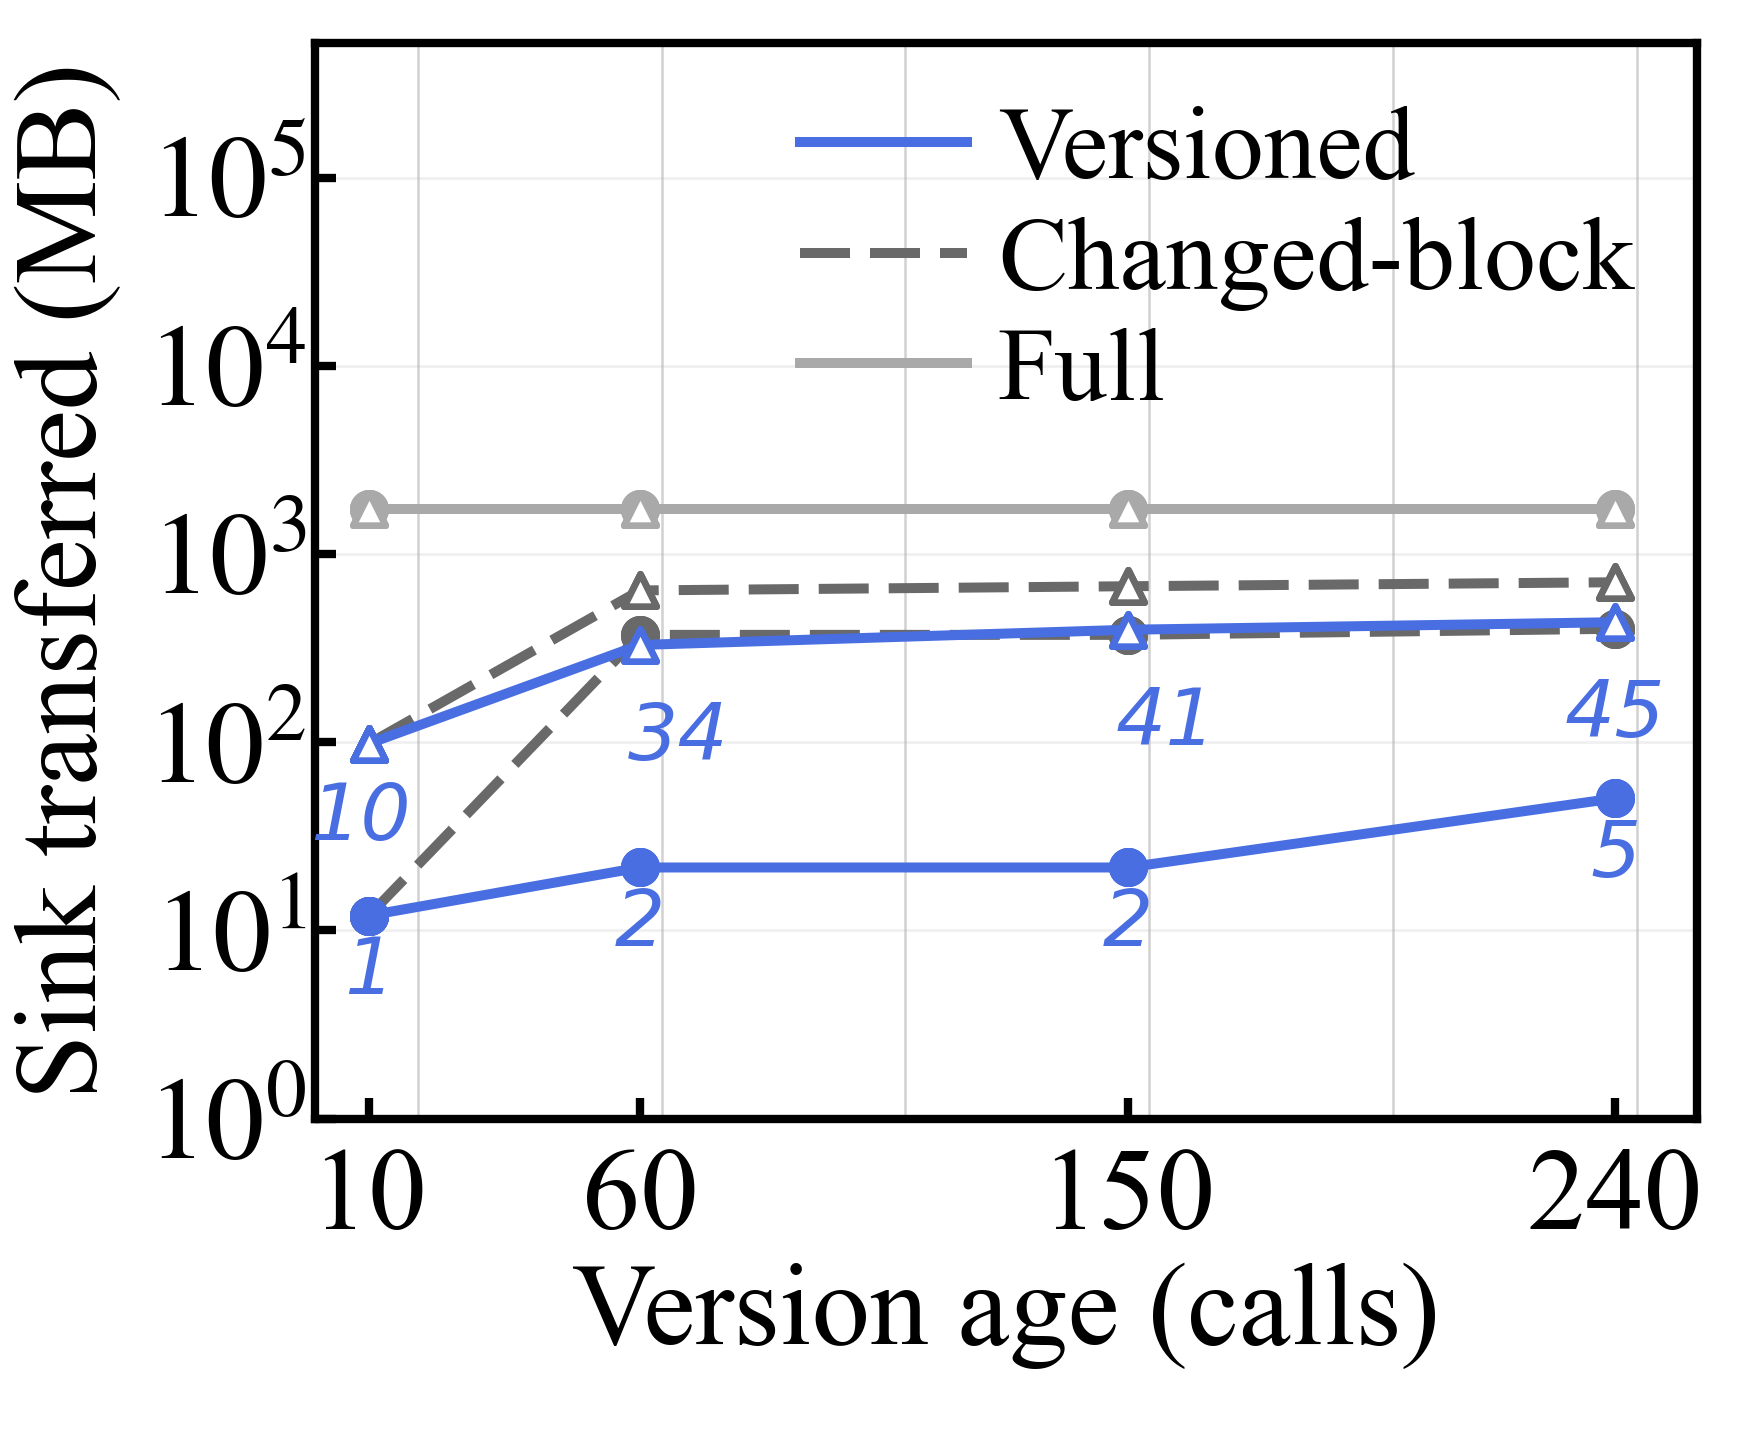
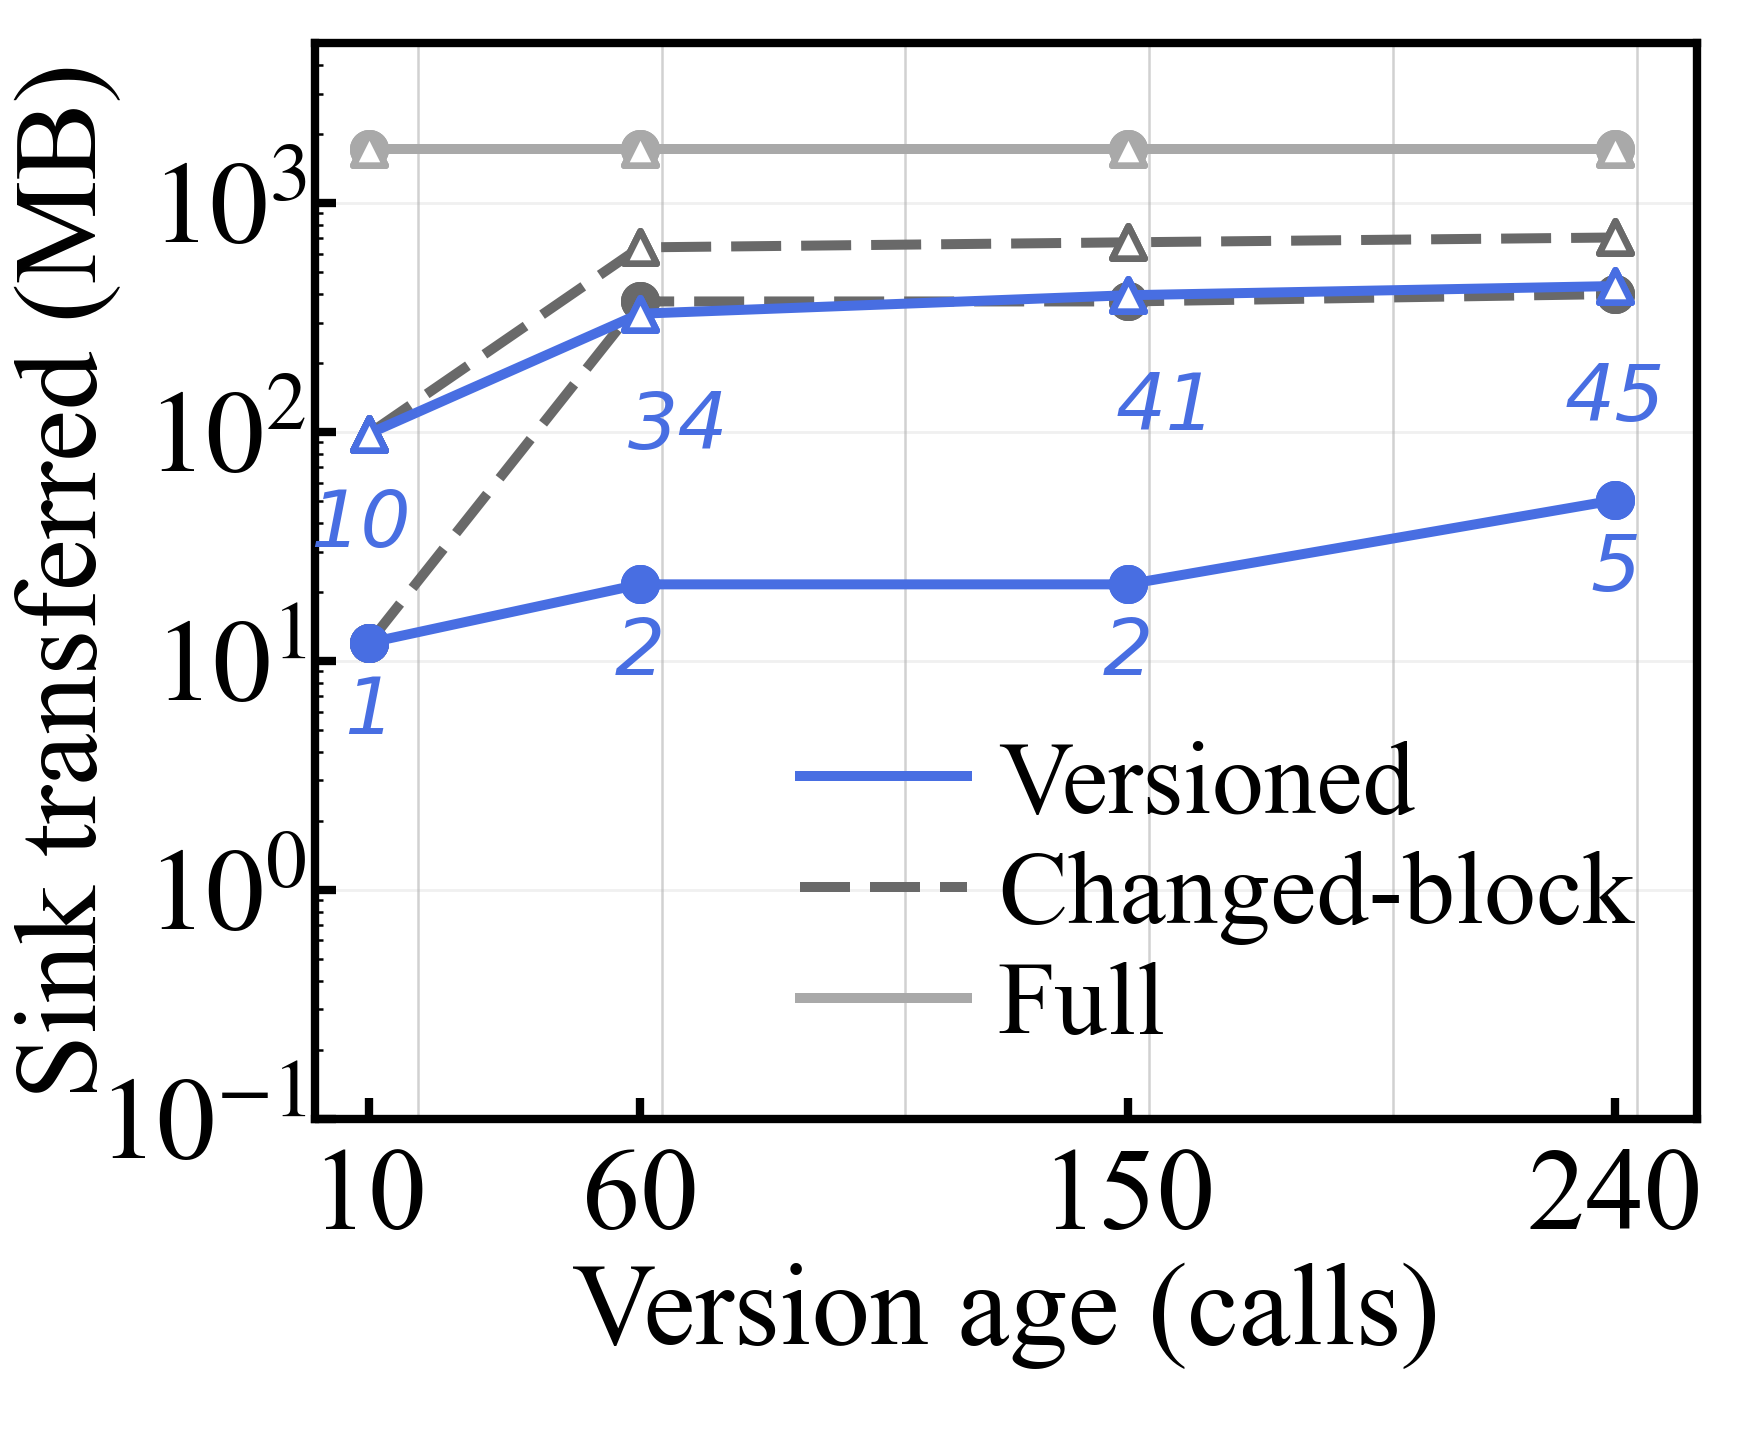
Fig. 10 review: (a) y range 0.1-5,000 MB (top just above Full), legend moved to the empty bottom right; caption draft states Changed-block is an offline estimate from measured modified K/V blocks and that the numbers are refreshed Sink entries; text on why readiness is flat in age (replay, not the b

diff --git a/tools/eval/fig10_report.py b/tools/eval/fig10_report.py
@@ -179,7 +179,7 @@ def md(R, v, agg):
     word = {True: "SUPPORTED", False: "NOT SUPPORTED", None: "NOT EVALUABLE"}
     L = ["# Fig. 10 results", "", "Rules: `preregistration.md`. " + "; ".join(f"**{h.replace('_', '-')}: {word[agg[h]]}**" for h in agg), ""]
     for w, lab in WORKLOADS.items():
-        L += [f"## {lab} ({w})", "", "| age | arm | valid | base (MB) | total mig. 2 (MB) | readiness (s) | base ready (s) | interruption (s) | refreshed / shifted entries | changed-block (MB) | unchanged-only entry (MB) | fallbacks |",
+        L += [f"## {lab} ({w})", "", "| age | arm | valid | base (MB) | total mig. 2 (MB) | readiness (s) | base ready (s) | interruption (s) | refreshed entries / distinct shifted entries / shift events | changed-block (MB) | unchanged-only entry (MB) | fallbacks |",
               "|---|---|---|---|---|---|---|---|---|---|---|---|"]
         for a in AGES:
             for arm in ARMS:
@@ -187,7 +187,7 @@ def md(R, v, agg):
                 mb = lambda k: f(x[k]["median"] / 1e6, 1) if x[k]["median"] is not None else "-"  # noqa: E731
                 rng = lambda k: f"{f(x[k]['median'])} [{f(x[k]['min'])}-{f(x[k]['max'])}]"  # noqa: E731
                 L.append(f"| {a} | {LABEL[arm]} | {x['n_valid']} / {x['n_runs']} | {mb('base_bytes')} | {mb('total_bytes_mig2')} | {rng('readiness_s')} | {rng('base_ready_s')} | "
-                         f"{rng('interruption_s')} | {f(x['refreshed_entries']['median'], 0)} / {f(x['distinct_shifted_entries']['median'], 0)} | {mb('changed_block_bytes')} | "
+                         f"{rng('interruption_s')} | {f(x['refreshed_entries']['median'], 0)} / {f(x['distinct_shifted_entries']['median'], 0)} / {f(x['shift_events']['median'], 0)} | {mb('changed_block_bytes')} | "
                          f"{mb('unchanged_only_entry_bytes')} | {x['fallbacks']} |")
             L.append(f"| {a} | equivalence (B's outputs S1..S2 equal per rep) | {R[(w, a)]['equivalence_by_rep']} | | | | | | | | | |")
         L += ["", f"changed vs retained (Versioned): " + "; ".join(f"a{a}: {R[(w, a)]['ver']['changed_vs_retained']}" for a in AGES), ""]

diff --git a/tools/eval/plot_fig10.py b/tools/eval/plot_fig10.py
@@ -96,14 +96,13 @@ def panel_a(C, out: Path):
                     else:   # High-refresh: below the point, clear of the Changed-block lines
                         first = a == xs[0]
                         annotate(ax, a + (-1.5 if first else 0 if a == xs[-1] else 7), y * (0.4 if first else 0.32), f"{n:.0f}", ha="center", va="center", color=BLUE)
-    lo, hi = 10 ** np.floor(np.log10(min(ys) * 0.3)), max(ys) * 300   # headroom above Full for the legend
-    ax.set_ylim(lo, hi)
+    ax.set_ylim(0.1, 5000)   # top just above Full (1,727.6 MB); the legend goes to the empty bottom right
     ax.yaxis.set_major_locator(LogLocator(base=10, numticks=12))
     ax.yaxis.set_major_formatter(FuncFormatter(lambda v, _: f"$10^{{{int(round(np.log10(v)))}}}$"))
     ax.yaxis.set_minor_formatter(NullFormatter())
     common(ax, "Sink transferred (MB)")
     ax.yaxis.set_label_coords(-0.14, 0.5)
-    legend(ax, "upper right", methods=("ver", "chg", "full"))
+    legend(ax, "lower right", methods=("ver", "chg", "full"))
     save(fig, out)
 
 

diff --git a/results/evaluation/osdi/fig10/fig10_report.md b/results/evaluation/osdi/fig10/fig10_report.md
@@ -4,7 +4,8 @@ Preregistration FROZEN a841a0cd (decisions D1-D6). Runs: 48 (7d712029, run commi
 B = elves-02): A -> B -> A, seed 0, trigger 30, first switch s1 = 74, ages 10 / 60 / 150 / 240, Full (`--replay_retain`)
 vs Versioned (`--replay_retain --replay_reuse`), 3 reps, both workloads. Numbers: `fig10_results.{json,md}`
 (`tools/eval/fig10_report.py`); figures: `figures/` (`tools/eval/plot_fig10.py`, Fig. 6a canvas and axes box, style
-font sizes; legend label "Versioned", no mechanism name).
+font sizes; legend label "Versioned", no mechanism name; (a) y range 0.1-5,000 MB with the legend at the bottom
+right).
 
 ## 1. Verdicts (frozen rules)
 
@@ -21,33 +22,53 @@ Bytes are identical across reps in every cell (deterministic generation, fixed s
 
 ## 2. Panel 10a: Sink base bytes [V] measured (Versioned, Full); [C] computed from measured block sets (changed-block, entry-level)
 
-| workload | age | refreshed / shift events | changed blocks K / V | Versioned | changed-block | entry-level unchanged-only | Full | Versioned / changed-block | Versioned / Full |
+| workload | age | refreshed / distinct shifted entries / shift events | changed blocks K / V | Versioned | changed-block | entry-level unchanged-only | Full | Versioned / changed-block | Versioned / Full |
 |---|---|---|---|---|---|---|---|---|---|
-| dog | 10 | 1 / 0 | 1 / 1 | 12.0 | 12.0 | 12.0 | 1,727.6 | 1.00 | 0.007 |
-| dog | 60 | 2 / 73 | 75 / 2 | 21.6 | 371.4 | 721.2 | 1,727.6 | 0.058 | 0.012 |
-| dog | 150 | 2 / 73 | 75 / 2 | 21.6 | 371.4 | 721.2 | 1,727.6 | 0.058 | 0.012 |
-| dog | 240 | 5 / 73 | 78 / 5 | 50.3 | 400.2 | 750.0 | 1,727.6 | 0.126 | 0.029 |
-| bfly | 10 | 10 / 0 | 10 / 10 | 98.2 | 98.2 | 98.2 | 1,727.6 | 1.00 | 0.057 |
-| bfly | 60 | 34 / 65 | 99 / 34 | 328.3 | 639.8 | 951.3 | 1,727.6 | 0.51 | 0.19 |
-| bfly | 150 | 41 / 58 | 99 / 41 | 395.4 | 673.3 | 951.3 | 1,727.6 | 0.59 | 0.23 |
-| bfly | 240 | 45 / 57 | 102 / 45 | 433.7 | 706.9 | 980.0 | 1,727.6 | 0.61 | 0.25 |
+| dog | 10 | 1 / 0 / 0 | 1 / 1 | 12.0 | 12.0 | 12.0 | 1,727.6 | 1.00 | 0.007 |
+| dog | 60 | 2 / 73 / 73 | 75 / 2 | 21.6 | 371.4 | 721.2 | 1,727.6 | 0.058 | 0.012 |
+| dog | 150 | 2 / 73 / 219 | 75 / 2 | 21.6 | 371.4 | 721.2 | 1,727.6 | 0.058 | 0.012 |
+| dog | 240 | 5 / 73 / 365 | 78 / 5 | 50.3 | 400.2 | 750.0 | 1,727.6 | 0.126 | 0.029 |
+| bfly | 10 | 10 / 0 / 0 | 10 / 10 | 98.2 | 98.2 | 98.2 | 1,727.6 | 1.00 | 0.057 |
+| bfly | 60 | 34 / 65 / 65 | 99 / 34 | 328.3 | 639.8 | 951.3 | 1,727.6 | 0.51 | 0.19 |
+| bfly | 150 | 41 / 58 / 174 | 99 / 41 | 395.4 | 673.3 | 951.3 | 1,727.6 | 0.59 | 0.23 |
+| bfly | 240 | 45 / 57 / 285 | 102 / 45 | 433.7 | 706.9 | 980.0 | 1,727.6 | 0.61 | 0.25 |
 
 (MB. Total second-migration bytes, base + log + switch: dog Versioned 41-80 vs Full 1,747-1,757; bfly 635-856 vs
 2,111-2,265.)
 
 - **Where the saving over changed-block comes from.** Every changed V block belongs to a refreshed entry (V count =
-  refreshed count in all 8 cells); the remaining changed blocks are K blocks re-rotated by realignment shifts (dog 73-76,
-  bfly 57-65 per cell). Versioned sends those as ordered shift events instead of bytes, so its base is the refreshed
+  refreshed count in all 8 cells); the remaining changed blocks are K blocks re-rotated by realignment shifts (dog 73,
+  bfly 57-65 distinct entries per cell). Versioned sends those as ordered shift events instead of bytes, so its base is the refreshed
   entries plus metadata. The gap to changed-block is therefore large where shifts dominate (dog, 8-17x) and smaller
   where refreshes dominate (bfly, 1.6-2.0x).
 - **Age 10** crosses no realignment (the first is at age 19): changed-block equals Versioned, as preregistered.
 - **Growth with age** follows the refreshed-entry count, not the age: dog stays at 2 refreshed entries from age 60 to
-  150 (identical bytes) and reaches 5 at 240; bfly grows 10 -> 34 -> 41 -> 45 and flattens. Shift events (one per
-  recorded position change) stay at 73 in dog for ages 60-240 although ages 150 / 240 cross more realignment calls;
-  in bfly they fall 65 -> 57 as shifted entries become refreshed ones (which drop their shifts). Why the later
-  realignments add no position changes was not examined here.
+  150 (identical bytes) and reaches 5 at 240; bfly grows 10 -> 34 -> 41 -> 45 and flattens. Shift events grow with
+  every realignment crossed (dog 73 -> 219 -> 365, bfly 65 -> 174 -> 285) but cost only metadata; the distinct shifted
+  entries stay at 73 in dog (the same entries shift at each realignment) and fall 65 -> 57 in bfly as shifted entries
+  become refreshed ones (which drop their shifts). Section 2a checks the tracker.
 - Predictions [H] vs measured: dog Versioned / changed-block 0.06-0.13 (predicted 0.05-0.2); bfly 0.51-0.61, rising
   (predicted 0.5-0.8, rising); bfly at age 240 is 0.25 of Full (predicted 0.4-0.7; the saving is larger than predicted).
+
+## 2a. Tracker check: is any shift missing? [V] measured, all 24 Versioned runs
+
+Raised in review: the dog shift count looked constant (73) at ages 60 / 150 / 240. That number was the **distinct
+shifted entries**; an earlier draft of this report mislabelled it as shift events. The records show:
+
+| workload | age | realignments crossed (calls 93, 138, ... before the base boundary) | shift events | distinct shifted entries | events / entry |
+|---|---|---|---|---|---|
+| dog | 60 / 150 / 240 | 1 / 3 / 5 | 73 / 219 / 365 | 73 / 73 / 73 | 1.0 / 3.0 / 5.0 |
+| bfly | 60 / 150 / 240 | 1 / 3 / 5 | 65 / 174 / 285 | 65 / 58 / 57 | 1.0 / 3.0 / 5.0 |
+
+- Every shifted entry shifts once per realignment crossed (base boundaries at calls 137 / 227 / 317), exactly.
+- Two independent sources agree in every run: the tracker's sets (refreshed entries, distinct shifted entries, from
+  position changes on B) and the checksum comparison on A (blocks differing between the retained version and the base
+  boundary). Changed K blocks = refreshed + distinct shifted entries, changed V blocks = refreshed entries, in 24 / 24.
+- End-to-end: every delta was DELTAOK with 0 / 360 mismatched blocks and equal positions. A missed shift or refresh would
+  leave a block different from the source and fail this check (DELTANO), which did not happen.
+
+So the tracker behaves as designed; nothing is lost. Why 73 of the 180 dog entries move and the rest do not is a
+property of the Sink layout at realignment and is not examined here.
 
 ## 3. Panel 10b: readiness [V] measured
 
@@ -79,6 +100,22 @@ Bytes are identical across reps in every cell (deterministic generation, fixed s
   saving over block-level reuse comes from shift events (K re-rotation) and is largest when refreshes are few.
 - **10b.** The byte saving shortens readiness to 0.36-0.40 of Full at every tested age (up to 240 calls); readiness
   does not degrade with age here because the replay bound, not the base, sets it.
+
+## 4a. Text for the paper (draft)
+
+**Why sweep version age if readiness is flat.** As the retained version ages, the Sink bytes Versioned must send grow
+(High-refresh: 98 -> 434 MB from age 10 to 240) because more entries are refreshed. Readiness does not grow with them
+(8.99-9.30 s) because the destination's readiness is set by the replay of the recent calls past the base boundary, not
+by the base transfer: the base arrives in 2.5-6.2 s, before that replay completes. Versioned reuse therefore keeps the
+base off the critical path across all tested ages; the age sweep shows how much margin is left (bfly base ready 6.15 s
+at age 240 vs readiness 8.99 s), not a speedup that decays with age. Full sends 1,727.6 MB, its base alone takes
+18.5-20.9 s and sets readiness at 22.4-25.5 s.
+
+**Caption draft.** *Fig. 10. Versioned Sink reuse vs version age (A -> B -> A, 1 Gbps). (a) Sink bytes sent at the
+second migration (log scale). Versioned and Full are measured; Changed-block is an offline estimate based on measured
+modified K / V blocks (what reusing every unchanged block would send). Circles: Low-refresh; triangles: High-refresh.
+Numbers indicate refreshed Sink entries. (b) Destination readiness; lines are medians of 3 runs, markers individual
+runs.*
 
 ## 5. Limits
 

diff --git a/results/evaluation/osdi/fig10/fig10_results.md b/results/evaluation/osdi/fig10/fig10_results.md
@@ -4,19 +4,19 @@ Rules: `preregistration.md`. **F10-H1: SUPPORTED**; **F10-H2: SUPPORTED**; **F10
 
 ## Low-refresh (dog)
 
-| age | arm | valid | base (MB) | total mig. 2 (MB) | readiness (s) | base ready (s) | interruption (s) | refreshed / shifted entries | changed-block (MB) | unchanged-only entry (MB) | fallbacks |
+| age | arm | valid | base (MB) | total mig. 2 (MB) | readiness (s) | base ready (s) | interruption (s) | refreshed entries / distinct shifted entries / shift events | changed-block (MB) | unchanged-only entry (MB) | fallbacks |
 |---|---|---|---|---|---|---|---|---|---|---|---|
-| 10 | Full | 3 / 3 | 1727.6 | 1756.8 | 22.51 [22.25-22.73] | 18.62 [18.34-18.71] | 1.55 [1.54-1.56] | 1 / 0 | - | - | 0 |
-| 10 | Versioned (M2) | 3 / 3 | 12.0 | 41.1 | 8.80 [8.75-8.81] | 2.45 [2.43-2.46] | 1.42 [1.42-1.42] | 1 / 0 | 12.0 | 12.0 | 0 |
+| 10 | Full | 3 / 3 | 1727.6 | 1756.8 | 22.51 [22.25-22.73] | 18.62 [18.34-18.71] | 1.55 [1.54-1.56] | 1 / 0 / 0 | - | - | 0 |
+| 10 | Versioned (M2) | 3 / 3 | 12.0 | 41.1 | 8.80 [8.75-8.81] | 2.45 [2.43-2.46] | 1.42 [1.42-1.42] | 1 / 0 / 0 | 12.0 | 12.0 | 0 |
 | 10 | equivalence (B's outputs S1..S2 equal per rep) | {1: True, 2: True, 3: True} | | | | | | | | | |
-| 60 | Full | 3 / 3 | 1727.6 | 1756.8 | 22.47 [22.44-22.87] | 18.61 [18.57-18.85] | 1.54 [1.53-1.55] | 2 / 73 | - | - | 0 |
-| 60 | Versioned (M2) | 3 / 3 | 21.6 | 50.7 | 8.82 [8.78-8.86] | 2.49 [2.49-2.51] | 1.43 [1.42-1.44] | 2 / 73 | 371.4 | 721.2 | 0 |
+| 60 | Full | 3 / 3 | 1727.6 | 1756.8 | 22.47 [22.44-22.87] | 18.61 [18.57-18.85] | 1.54 [1.53-1.55] | 2 / 73 / 73 | - | - | 0 |
+| 60 | Versioned (M2) | 3 / 3 | 21.6 | 50.7 | 8.82 [8.78-8.86] | 2.49 [2.49-2.51] | 1.43 [1.42-1.44] | 2 / 73 / 73 | 371.4 | 721.2 | 0 |
 | 60 | equivalence (B's outputs S1..S2 equal per rep) | {1: True, 2: True, 3: True} | | | | | | | | | |
-| 150 | Full | 3 / 3 | 1727.6 | 1747.2 | 22.39 [22.21-22.40] | 18.51 [18.35-18.57] | 1.55 [1.53-1.56] | 2 / 73 | - | - | 0 |
-| 150 | Versioned (M2) | 3 / 3 | 21.6 | 41.1 | 8.84 [8.83-8.85] | 2.53 [2.52-2.54] | 1.42 [1.41-1.42] | 2 / 73 | 371.4 | 721.2 | 0 |
+| 150 | Full | 3 / 3 | 1727.6 | 1747.2 | 22.39 [22.21-22.40] | 18.51 [18.35-18.57] | 1.55 [1.53-1.56] | 2 / 73 / 219 | - | - | 0 |
+| 150 | Versioned (M2) | 3 / 3 | 21.6 | 41.1 | 8.84 [8.83-8.85] | 2.53 [2.52-2.54] | 1.42 [1.41-1.42] | 2 / 73 / 219 | 371.4 | 721.2 | 0 |
 | 150 | equivalence (B's outputs S1..S2 equal per rep) | {1: True, 2: True, 3: True} | | | | | | | | | |
-| 240 | Full | 3 / 3 | 1727.6 | 1756.8 | 22.44 [22.40-22.46] | 18.60 [18.57-18.60] | 1.54 [1.53-1.56] | 5 / 73 | - | - | 0 |
-| 240 | Versioned (M2) | 3 / 3 | 50.3 | 79.5 | 8.88 [8.87-8.89] | 2.61 [2.61-2.63] | 1.42 [1.41-1.42] | 5 / 73 | 400.2 | 750.0 | 0 |
+| 240 | Full | 3 / 3 | 1727.6 | 1756.8 | 22.44 [22.40-22.46] | 18.60 [18.57-18.60] | 1.54 [1.53-1.56] | 5 / 73 / 365 | - | - | 0 |
+| 240 | Versioned (M2) | 3 / 3 | 50.3 | 79.5 | 8.88 [8.87-8.89] | 2.61 [2.61-2.63] | 1.42 [1.41-1.42] | 5 / 73 / 365 | 400.2 | 750.0 | 0 |
 | 240 | equivalence (B's outputs S1..S2 equal per rep) | {1: True, 2: True, 3: True} | | | | | | | | | |
 
 changed vs retained (Versioned): a10: [{'blocks': 2, 'k': 1, 'v': 1}, {'blocks': 2, 'k': 1, 'v': 1}, {'blocks': 2, 'k': 1, 'v': 1}]; a60: [{'blocks': 77, 'k': 75, 'v': 2}, {'blocks': 77, 'k': 75, 'v': 2}, {'blocks': 77, 'k': 75, 'v': 2}]; a150: [{'blocks': 77, 'k': 75, 'v': 2}, {'blocks': 77, 'k': 75, 'v': 2}, {'blocks': 77, 'k': 75, 'v': 2}]; a240: [{'blocks': 83, 'k': 78, 'v': 5}, {'blocks': 83, 'k': 78, 'v': 5}, {'blocks': 83, 'k': 78, 'v': 5}]
@@ -25,19 +25,19 @@ verdicts: {"evaluable": true, "F10_H1": {"pairs": {"60": [21569328, 371408688], 
 
 ## High-refresh (bfly)
 
-| age | arm | valid | base (MB) | total mig. 2 (MB) | readiness (s) | base ready (s) | interruption (s) | refreshed / shifted entries | changed-block (MB) | unchanged-only entry (MB) | fallbacks |
+| age | arm | valid | base (MB) | total mig. 2 (MB) | readiness (s) | base ready (s) | interruption (s) | refreshed entries / distinct shifted entries / shift events | changed-block (MB) | unchanged-only entry (MB) | fallbacks |
 |---|---|---|---|---|---|---|---|---|---|---|---|
-| 10 | Full | 3 / 3 | 1727.6 | 2264.8 | 25.51 [24.33-25.54] | 20.88 [20.01-20.91] | 1.84 [1.84-1.87] | 10 / 0 | - | - | 0 |
-| 10 | Versioned (M2) | 3 / 3 | 98.2 | 635.4 | 9.30 [9.25-9.36] | 3.11 [3.11-3.12] | 1.73 [1.72-1.74] | 10 / 0 | 98.2 | 98.2 | 0 |
+| 10 | Full | 3 / 3 | 1727.6 | 2264.8 | 25.51 [24.33-25.54] | 20.88 [20.01-20.91] | 1.84 [1.84-1.87] | 10 / 0 / 0 | - | - | 0 |
+| 10 | Versioned (M2) | 3 / 3 | 98.2 | 635.4 | 9.30 [9.25-9.36] | 3.11 [3.11-3.12] | 1.73 [1.72-1.74] | 10 / 0 / 0 | 98.2 | 98.2 | 0 |
 | 10 | equivalence (B's outputs S1..S2 equal per rep) | {1: True, 2: True, 3: True} | | | | | | | | | |
-| 60 | Full | 3 / 3 | 1727.6 | 2168.9 | 23.39 [23.06-23.84] | 19.19 [18.98-19.46] | 1.54 [1.51-1.65] | 34 / 65 | - | - | 0 |
-| 60 | Versioned (M2) | 3 / 3 | 328.3 | 769.6 | 9.03 [9.02-9.06] | 5.21 [5.20-5.25] | 1.42 [1.41-1.43] | 34 / 65 | 639.8 | 951.3 | 0 |
+| 60 | Full | 3 / 3 | 1727.6 | 2168.9 | 23.39 [23.06-23.84] | 19.19 [18.98-19.46] | 1.54 [1.51-1.65] | 34 / 65 / 65 | - | - | 0 |
+| 60 | Versioned (M2) | 3 / 3 | 328.3 | 769.6 | 9.03 [9.02-9.06] | 5.21 [5.20-5.25] | 1.42 [1.41-1.43] | 34 / 65 / 65 | 639.8 | 951.3 | 0 |
 | 60 | equivalence (B's outputs S1..S2 equal per rep) | {1: True, 2: True, 3: True} | | | | | | | | | |
-| 150 | Full | 3 / 3 | 1727.6 | 2188.1 | 24.74 [23.38-24.81] | 20.28 [19.23-20.36] | 1.60 [1.60-1.70] | 41 / 58 | - | - | 0 |
-| 150 | Versioned (M2) | 3 / 3 | 395.4 | 855.8 | 9.12 [9.11-9.13] | 5.84 [5.78-5.85] | 1.49 [1.48-1.50] | 41 / 58 | 673.3 | 951.3 | 0 |
+| 150 | Full | 3 / 3 | 1727.6 | 2188.1 | 24.74 [23.38-24.81] | 20.28 [19.23-20.36] | 1.60 [1.60-1.70] | 41 / 58 / 174 | - | - | 0 |
+| 150 | Versioned (M2) | 3 / 3 | 395.4 | 855.8 | 9.12 [9.11-9.13] | 5.84 [5.78-5.85] | 1.49 [1.48-1.50] | 41 / 58 / 174 | 673.3 | 951.3 | 0 |
 | 150 | equivalence (B's outputs S1..S2 equal per rep) | {1: True, 2: True, 3: True} | | | | | | | | | |
-| 240 | Full | 3 / 3 | 1727.6 | 2111.4 | 23.41 [22.82-23.60] | 19.15 [18.80-19.35] | 1.53 [1.53-1.56] | 45 / 57 | - | - | 0 |
-| 240 | Versioned (M2) | 3 / 3 | 433.7 | 817.5 | 8.99 [8.91-9.00] | 6.15 [6.12-6.21] | 1.42 [1.41-1.43] | 45 / 57 | 706.9 | 980.0 | 0 |
+| 240 | Full | 3 / 3 | 1727.6 | 2111.4 | 23.41 [22.82-23.60] | 19.15 [18.80-19.35] | 1.53 [1.53-1.56] | 45 / 57 / 285 | - | - | 0 |
+| 240 | Versioned (M2) | 3 / 3 | 433.7 | 817.5 | 8.99 [8.91-9.00] | 6.15 [6.12-6.21] | 1.42 [1.41-1.43] | 45 / 57 / 285 | 706.9 | 980.0 | 0 |
 | 240 | equivalence (B's outputs S1..S2 equal per rep) | {1: True, 2: True, 3: True} | | | | | | | | | |
 
 changed vs retained (Versioned): a10: [{'blocks': 20, 'k': 10, 'v': 10}, {'blocks': 20, 'k': 10, 'v': 10}, {'blocks': 20, 'k': 10, 'v': 10}]; a60: [{'blocks': 133, 'k': 99, 'v': 34}, {'blocks': 133, 'k': 99, 'v': 34}, {'blocks': 133, 'k': 99, 'v': 34}]; a150: [{'blocks': 140, 'k': 99, 'v': 41}, {'blocks': 140, 'k': 99, 'v': 41}, {'blocks': 140, 'k': 99, 'v': 41}]; a240: [{'blocks': 147, 'k': 102, 'v': 45}, {'blocks': 147, 'k': 102, 'v': 45}, {'blocks': 147, 'k': 102, 'v': 45}]
